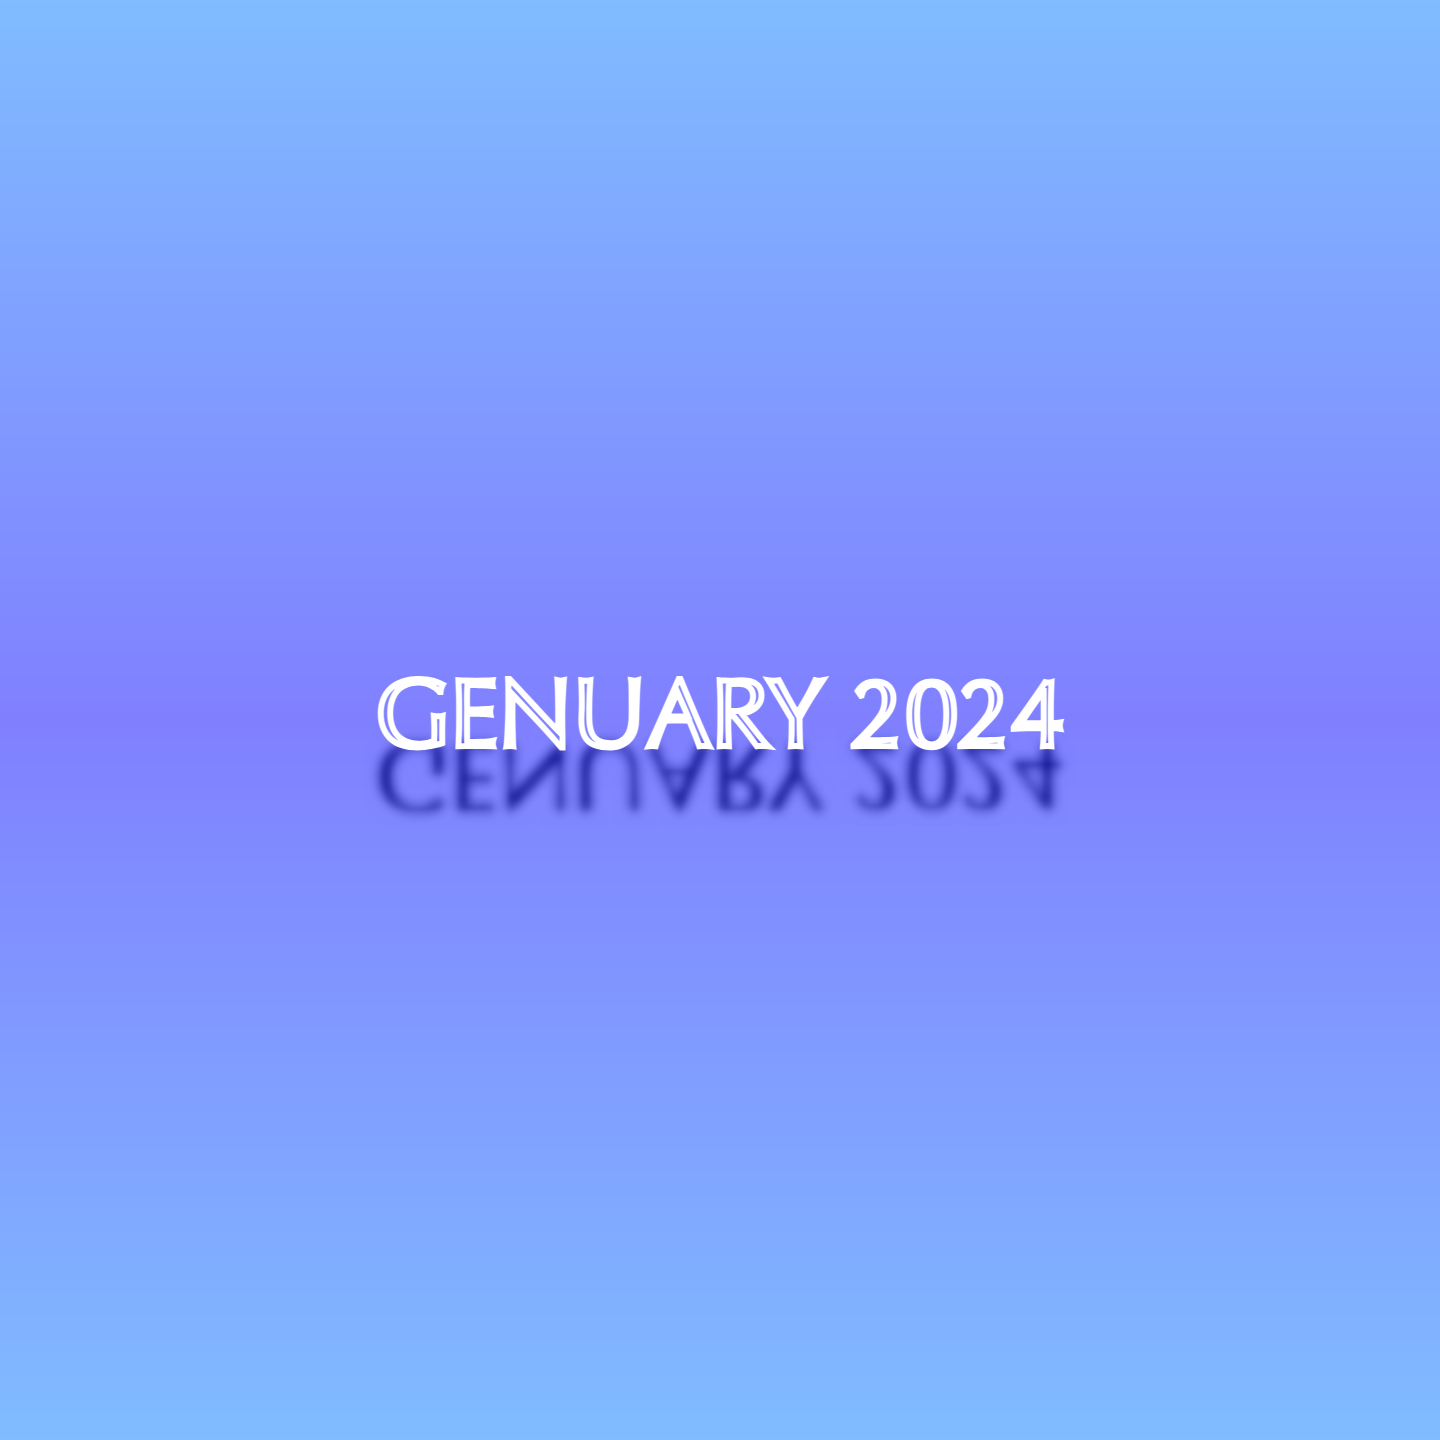
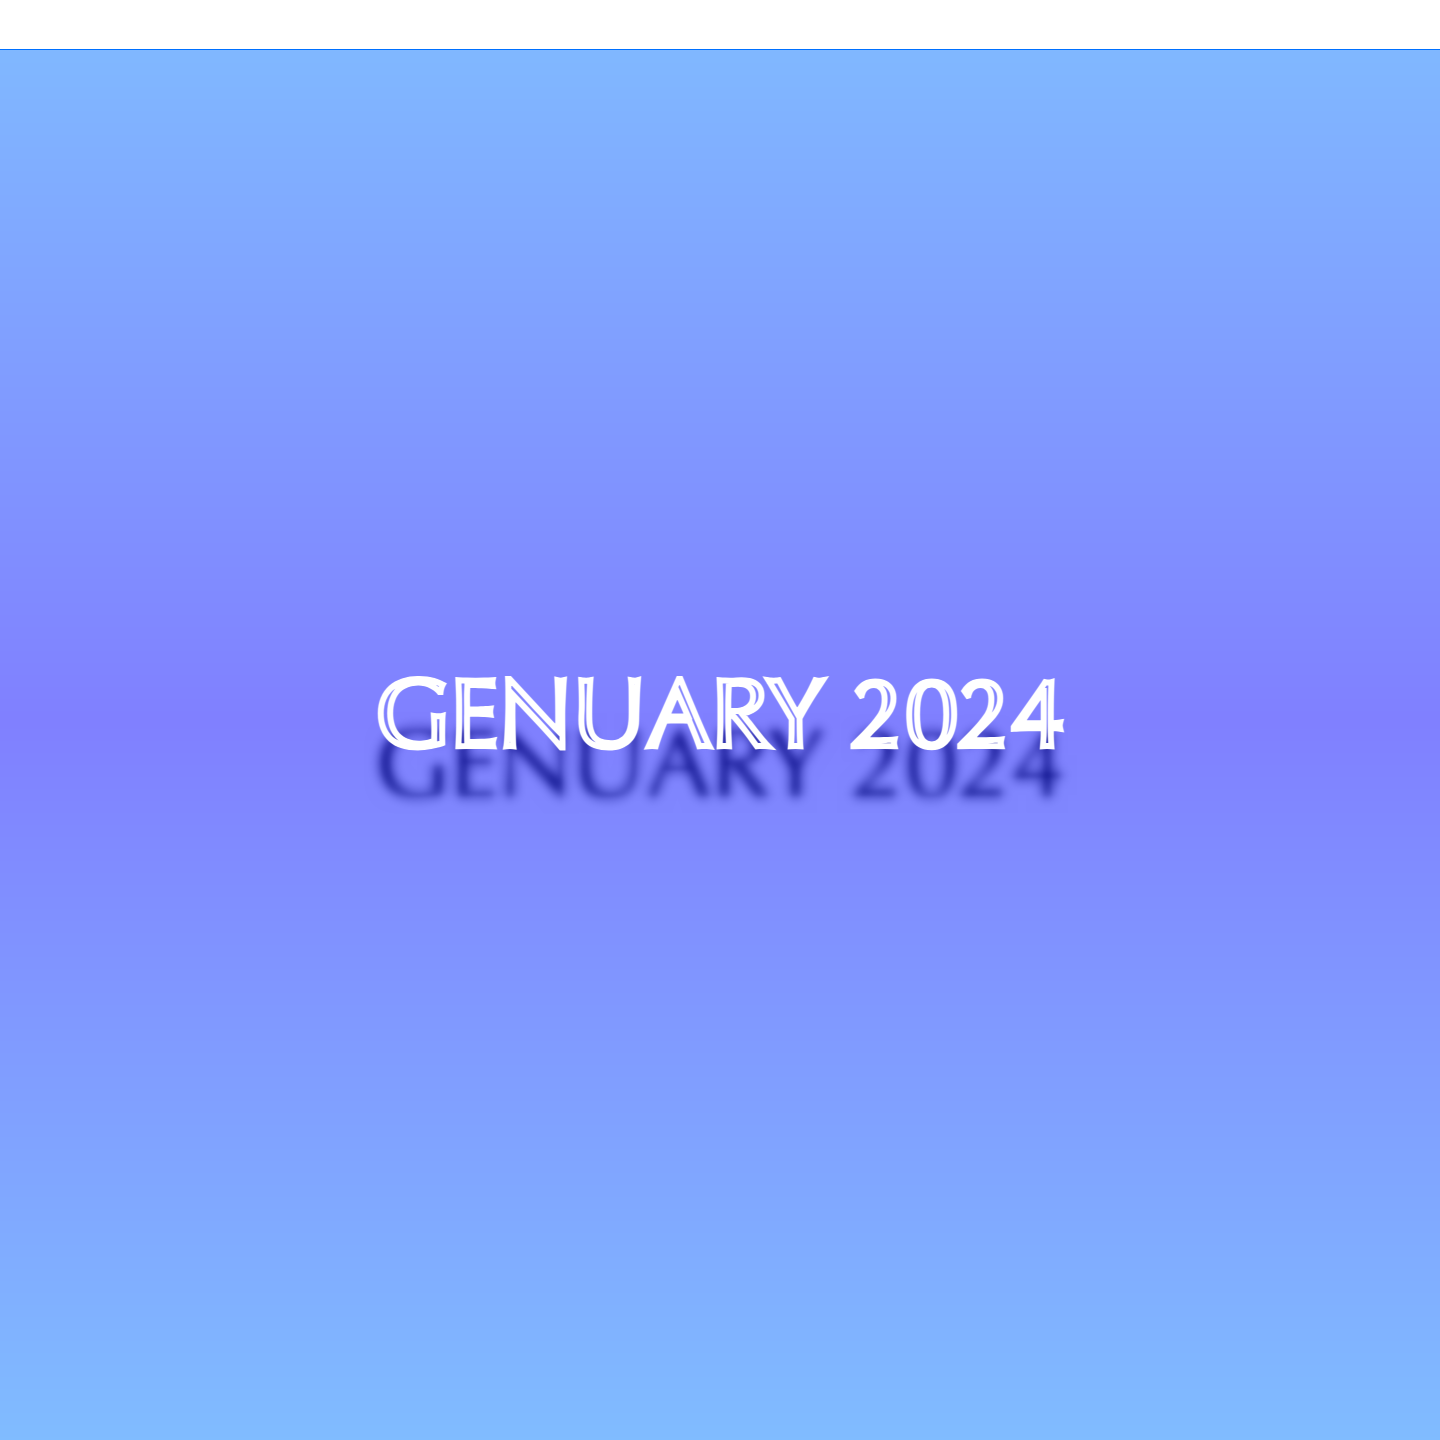
change shadow

Changed region(s): [[0.0, 0.0, 1.0, 0.0625], [0.25, 0.5, 0.75, 0.5625]]

diff --git a/public/programs/20240120.rb b/public/programs/20240120.rb
@@ -15,12 +15,12 @@ def setup()
   @textGraphic.text(@text, width / 2, height / 2)
 end
 
-def draw() 
-  noLoop
-  draw_background
-
-  drawReflection(@textGraphic, 0.5, 25)
-  main_text
+def draw
+    noLoop
+    y_offset = 25
+    draw_background(y_offset)
+    drawReflection(@textGraphic, 0.5, y_offset)
+    main_text
 end
 
 def main_text 
@@ -33,23 +33,22 @@ def main_text
   text(@text, width / 2, height / 2)
 end
 
-def draw_background()
-(0..height).each do |y|
+def draw_background(y_offset)
+  (y_offset..height).each do |y|
     gradient = map(abs(y - height / 2), 0, height / 2, 255, 0)
     stroke(lerpColor(color(0, 120, 255), color(0, 0, 255), gradient.to_f / 255))
     line(0, y, width, y)
-end
+  end
 end
 
 def drawReflection(graphic, alpha, y_offset) 
   cg = createGraphics(width, height)
   cg.background(255)
-  cg.translate(0, height + y_offset)
-  cg.scale(1, -1) # y軸を反転
   cg.image(graphic, 0, 0, width, height)
     
-  push()
+  push
   tint(255, alpha * 255) 
   cg.filter(BLUR, 5) # ぼかし
-  image(cg, 0, 0, width, height)
+  image(cg, 0, y_offset, width, height)
+  pop
 end
